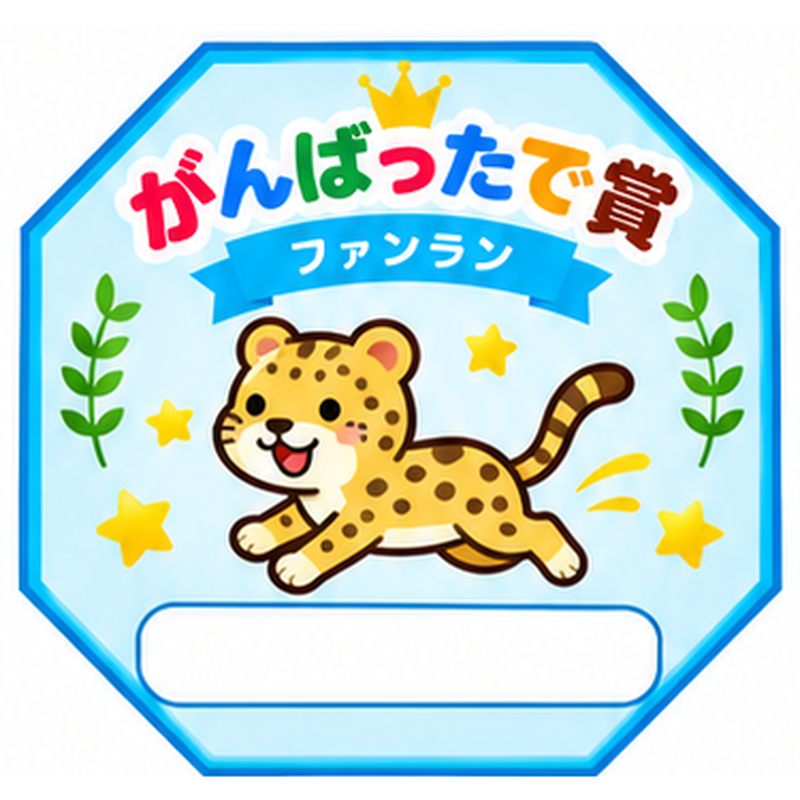
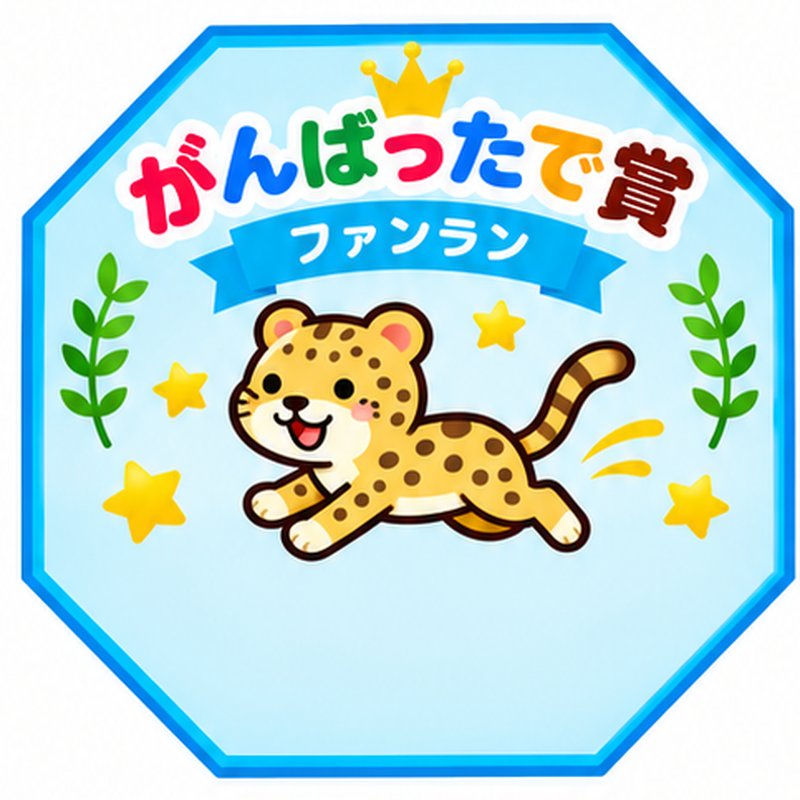
Add files via upload

diff --git a/app.js b/app.js
@@ -714,7 +714,7 @@ async function printOneFunRunCertificate(id){const r=state.funRunEntries?.[id];i
 
 
 function funRunMedalStyles(){return `
-@page{size:A4 portrait;margin:0}*{box-sizing:border-box}html,body{margin:0;padding:0;background:#eef2f5;font-family:"Yu Gothic","Hiragino Sans",sans-serif;-webkit-print-color-adjust:exact;print-color-adjust:exact}.toolbar{position:sticky;top:0;z-index:5;padding:9px;background:#173d61;color:#fff;text-align:center}.toolbar button{border:0;border-radius:8px;padding:8px 18px;font-weight:800}.medal-sheet{width:210mm;height:297mm;background:#fff;margin:10px auto;padding:5mm 4mm;display:grid;grid-template-columns:repeat(2,85.2mm);grid-template-rows:repeat(3,85.2mm);justify-content:center;align-content:center;column-gap:5mm;row-gap:5mm;page-break-after:always;box-shadow:0 5px 22px #0002}.medal-sheet:last-child{page-break-after:auto}.medal-cell{width:85.2mm;height:85.2mm;display:flex;align-items:center;justify-content:center;overflow:hidden;background:#fff}.medal-card{position:relative;width:85.2mm;height:85.2mm;flex:0 0 auto}.medal-bg{position:absolute;inset:0;width:100%;height:100%;object-fit:contain}.medal-caption{position:absolute;left:18.2%;right:18.2%;bottom:9.2%;height:21.2%;padding:1.25mm 1.45mm .95mm;background:rgba(255,252,240,.97);border:.45mm solid var(--medal-accent);border-radius:3.2mm;display:flex;flex-direction:column;align-items:center;justify-content:center;gap:.35mm;text-align:center;line-height:1.01;overflow:hidden}.medal-name,.medal-event,.medal-date{width:100%;white-space:nowrap;overflow:hidden;text-overflow:ellipsis}.medal-name{font-size:5.4mm;font-weight:900;color:#173f65;min-height:5.8mm}.medal-name.blank{color:transparent}.medal-event{font-size:2.65mm;font-weight:800;color:#303030}.medal-date{font-size:3.1mm;font-weight:900;color:#303030}.medal-event.small{font-size:2.35mm}.medal-date.small{font-size:2.8mm}@media print{body{background:#fff}.toolbar{display:none}.medal-sheet{margin:0;box-shadow:none}}`}
+@page{size:A4 portrait;margin:0}*{box-sizing:border-box}html,body{margin:0;padding:0;background:#eef2f5;font-family:"Yu Gothic","Hiragino Sans",sans-serif;-webkit-print-color-adjust:exact;print-color-adjust:exact}.toolbar{position:sticky;top:0;z-index:5;padding:9px;background:#173d61;color:#fff;text-align:center}.toolbar button{border:0;border-radius:8px;padding:8px 18px;font-weight:800}.medal-sheet{width:210mm;height:297mm;background:#fff;margin:10px auto;padding:4mm;display:grid;grid-template-columns:repeat(2,95mm);grid-template-rows:repeat(3,95mm);justify-content:center;align-content:center;column-gap:4mm;row-gap:1mm;page-break-after:always;box-shadow:0 5px 22px #0002}.medal-sheet:last-child{page-break-after:auto}.medal-cell{width:95mm;height:95mm;display:flex;align-items:center;justify-content:center;overflow:hidden;background:#fff}.medal-card{position:relative;width:95mm;height:95mm;flex:0 0 auto;overflow:hidden}.medal-bg{position:absolute;inset:0;width:100%;height:100%;object-fit:contain}.medal-caption{position:absolute;left:18%;right:18%;bottom:5.8%;height:20.5%;padding:1.1mm 1.2mm .95mm;background:rgba(255,252,244,.97);border:.42mm solid var(--medal-accent);border-radius:3.4mm;display:flex;flex-direction:column;align-items:center;justify-content:center;gap:.2mm;text-align:center;line-height:1.02;overflow:hidden}.medal-name,.medal-event,.medal-date{width:100%;white-space:nowrap;overflow:hidden;text-overflow:ellipsis}.medal-name{font-size:5.2mm;font-weight:900;color:#173f65;min-height:5.2mm}.medal-name.blank{color:transparent}.medal-event{font-size:2.4mm;font-weight:800;color:#303030}.medal-date{font-size:3mm;font-weight:900;color:#303030}.medal-event.small{font-size:2.2mm}.medal-date.small{font-size:2.8mm}@media print{body{background:#fff}.toolbar{display:none}.medal-sheet{margin:0;box-shadow:none}}`}
 function funRunMedalHtml(row){
   const info=funRunAnimalInfo(row?.animal),eventName=String(state.settings?.eventName||'駅伝大会').trim(),date=certificateDateText();
   const medalName=String(row?.name||'').trim();

diff --git a/README.md b/README.md
@@ -1,4 +1,4 @@
-v1.0.17
+v1.0.18
 
 - ファンランメダルを1.2倍サイズに拡大（A4 1ページ6枚配置に変更）
 

diff --git a/V1_RELEASE_NOTES.md b/V1_RELEASE_NOTES.md
@@ -1,4 +1,4 @@
-v1.0.17
+v1.0.18
 
 - ファンランメダルを1.2倍サイズに拡大（A4 1ページ6枚配置に変更）
 
